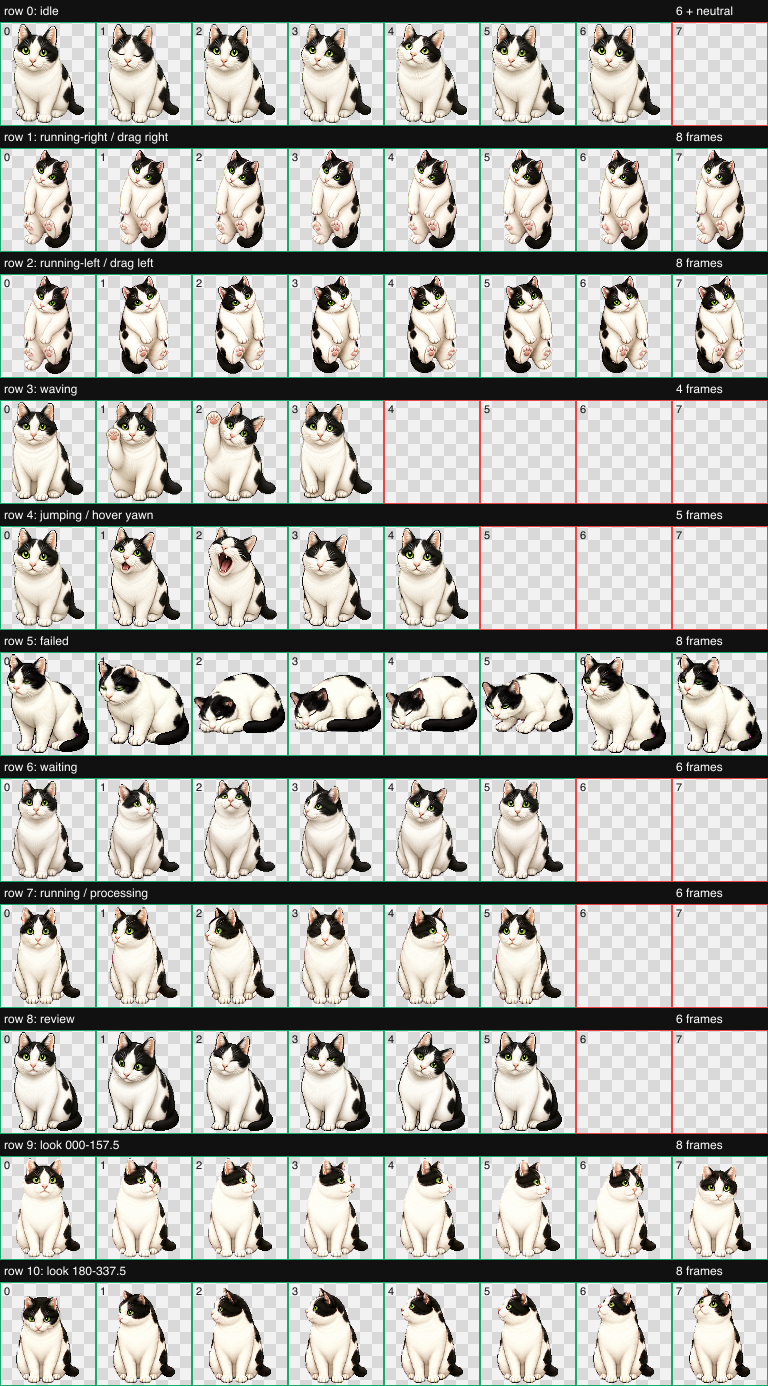
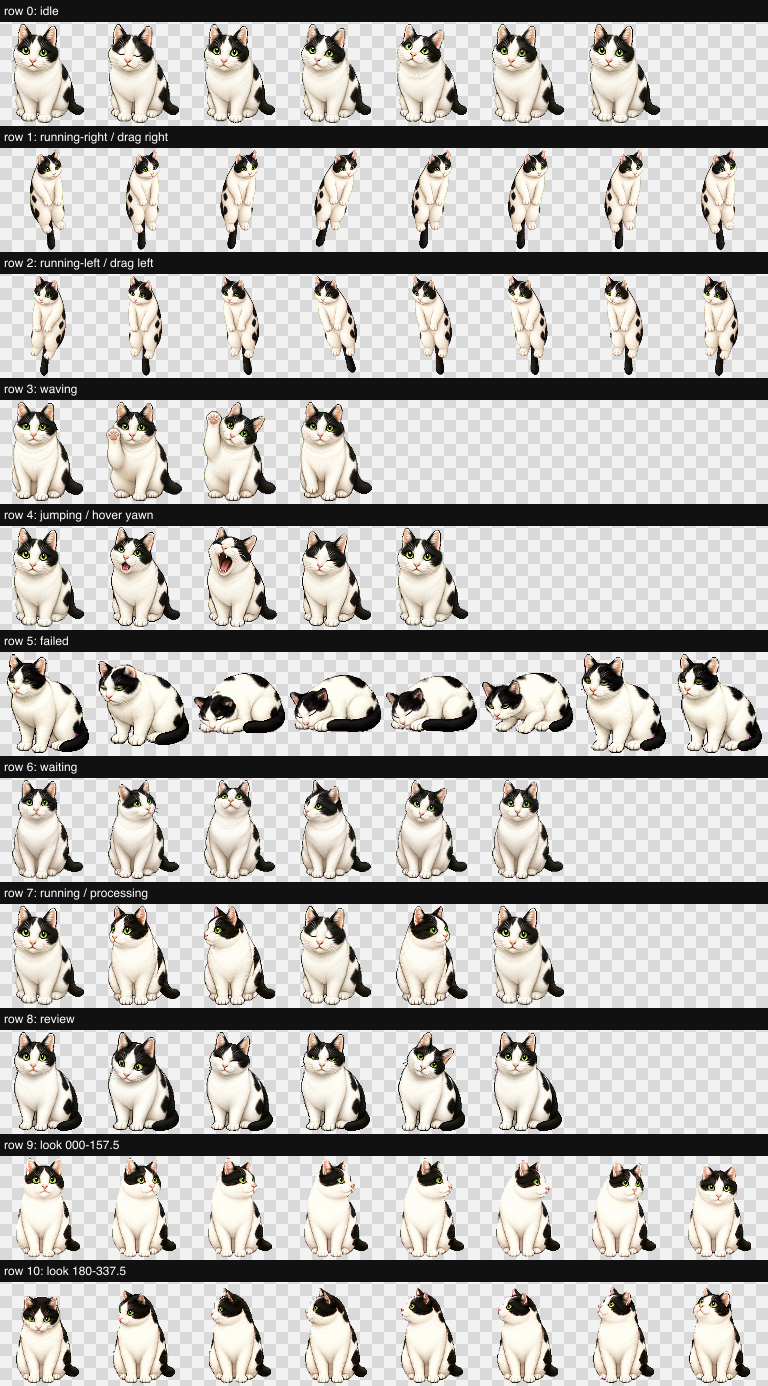
feat: release Doopal Pet v2.2.0

diff --git a/README.md b/README.md
@@ -30,8 +30,9 @@ Every released package is immutable under `versions/`. Reinstalling an older ver
 
 ```bash
 ./scripts/list-versions.sh
+./scripts/install.sh v2.2.0
 ./scripts/install.sh v2.1.0
-./scripts/install.sh v2.0.0 # roll back to the previous motion set
+./scripts/install.sh v2.0.0 # roll back to the pre-yawn motion set
 ./scripts/install.sh v1.0.0 # roll back to the previous identity
 ```
 
@@ -45,7 +46,7 @@ When switching between v1 and v2, it also moves the replaced `dupal` or `doopal`
 
 ## Current release
 
-- Version: `v2.1.0`
+- Version: `v2.2.0`
 - Pet ID: `doopal`
 - Display name: `Doopal`
 - Sprite contract: v2
@@ -53,9 +54,9 @@ When switching between v1 and v2, it also moves the replaced `dupal` or `doopal`
 - Cell: 192 × 208 px
 - Full spritesheet: 1536 × 2288 px
 - Format: transparent WebP
[2 lines of base64/hex data omitted]
 
-`v2.1.0` keeps the stable `doopal` identity and v2 sprite contract. Hover now plays a seated yawn that starts and ends on the exact idle frame. Cursor dragging uses a compact, hand-free scruff-pickup pose for both directions, with a shared neutral start and stable body proportions. All other state and look-direction pixels remain unchanged from `v2.0.0`.
+`v2.2.0` keeps the stable `doopal` identity and v2 sprite contract. Cursor dragging now uses Doopal's approved longer, naturally stretched scruff-pickup pose, and his gaze follows the cursor direction. The session-start processing loop preserves its calm left/right head turn while matching idle head size, body scale, center, and baseline; its entry and exit frames are the exact cleaned idle frame. The seated hover yawn remains unchanged.
 
 See [the state map](docs/STATE-MAP.md) for the animation semantics and [the asset specification](docs/ASSET-SPEC.md) for the row contract.
 

diff --git a/docs/STATE-MAP.md b/docs/STATE-MAP.md
@@ -28,6 +28,10 @@ When the pointer enters the Pet, the app temporarily selects `jumping`. When the
 
 This behavior was verified against the installed desktop app build on 2026-08-21. It is controlled by the app rather than `pet.json`, so future app releases may change it.
 
+## Processing transition
+
+At session start, the app changes from `idle` to row `running`. In `v2.2.0`, the first and last processing frames are the exact cleaned idle frame, and every active frame keeps the same `198 px` visible height, `y=202` baseline, and `x=95–96` center. The calm left/right head-turn motion remains, without the previous apparent body or head shrink.
+
 ## Drag transition
 
-Rows `running-right` and `running-left` are selected while the Pet is dragged. In `v2.1.0`, both directions begin from the same neutral, cursor-implied pickup frame before the body hangs and sways toward the drag direction. No human hand or cursor graphic is baked into the spritesheet.
+Rows `running-right` and `running-left` are selected while the Pet is dragged. In `v2.2.0`, Doopal hangs in the approved longer, naturally stretched scruff-pickup pose. His gaze matches the cursor direction: screen-right drag looks right and screen-left drag looks left. No human hand or cursor graphic is baked into the spritesheet.

diff --git a/CHANGELOG.md b/CHANGELOG.md
@@ -2,6 +2,20 @@
 
 All notable changes to the public Pet package are recorded here. Versions follow [Semantic Versioning](https://semver.org/).
 
+## [2.2.0] - 2026-08-22
+
+### Changed
+
+- Updated cursor dragging to Doopal's approved longer, naturally stretched scruff-pickup pose.
+- Matched Doopal's gaze to the screen-left or screen-right cursor-drag direction.
+- Preserved the calm left/right head-turn processing loop while matching the idle body and head proportions.
+
+### Fixed
+
+- Removed the apparent body and head shrink when a session changes from idle to processing.
+- Matched every active processing frame to the idle height, baseline, and center.
+- Made the processing entry and exit byte-identical to the cleaned idle frame and removed remaining chroma-edge contamination.
+
 ## [2.1.0] - 2026-08-21
 
 ### Changed
